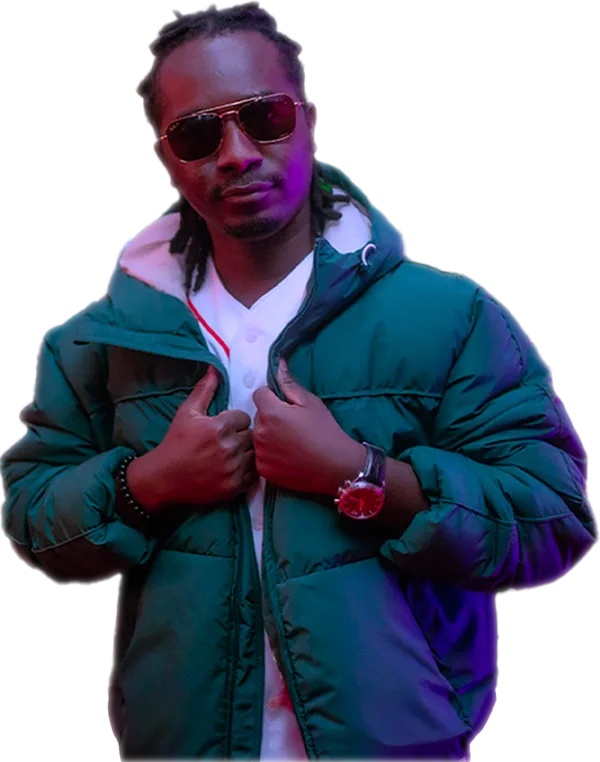
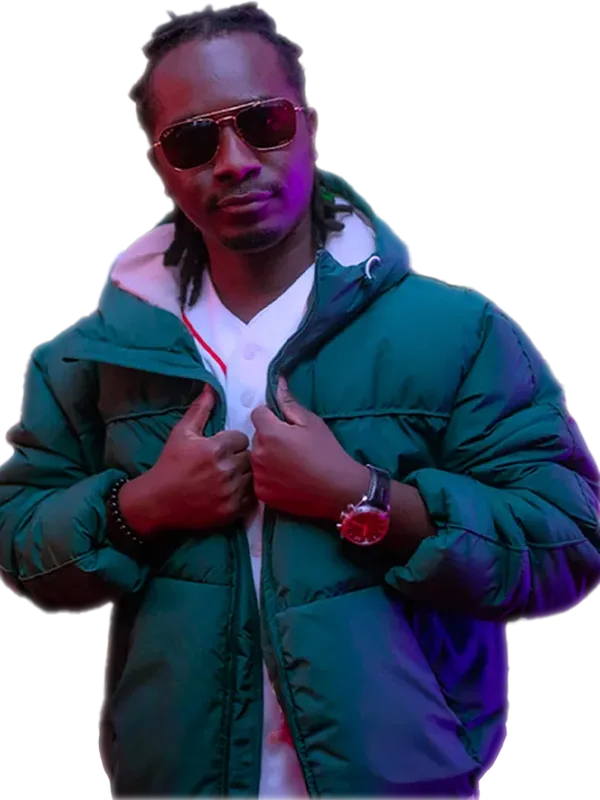
Normalize all DJ photos to 600x800 + object-position top (no head crop)

diff --git a/index.html b/index.html
@@ -198,7 +198,7 @@ nav{position:fixed;top:0;left:0;width:100%;z-index:100;padding:1rem 3rem;display
 .dj-card{border-radius:3px;overflow:hidden;border:1px solid rgba(255,255,255,.04);transition:border-color .4s,transform .4s;cursor:default}
 .dj-card:hover{border-color:rgba(201,168,76,.3);transform:translateY(-5px)}
 .dj-photo{aspect-ratio:3/4;background:var(--gris);position:relative;overflow:hidden}
-.dj-photo img{width:100%;height:100%;object-fit:cover;position:relative;z-index:0}
+.dj-photo img{width:100%;height:100%;object-fit:cover;object-position:top;position:relative;z-index:0}
 .dj-photo::after{content:'';position:absolute;inset:0;background:linear-gradient(to top,var(--noir),transparent 50%);z-index:1}
 .dj-photo .dj-placeholder{width:100%;height:100%;display:flex;align-items:center;justify-content:center}
 .dj-photo .dj-placeholder svg{opacity:.08}
